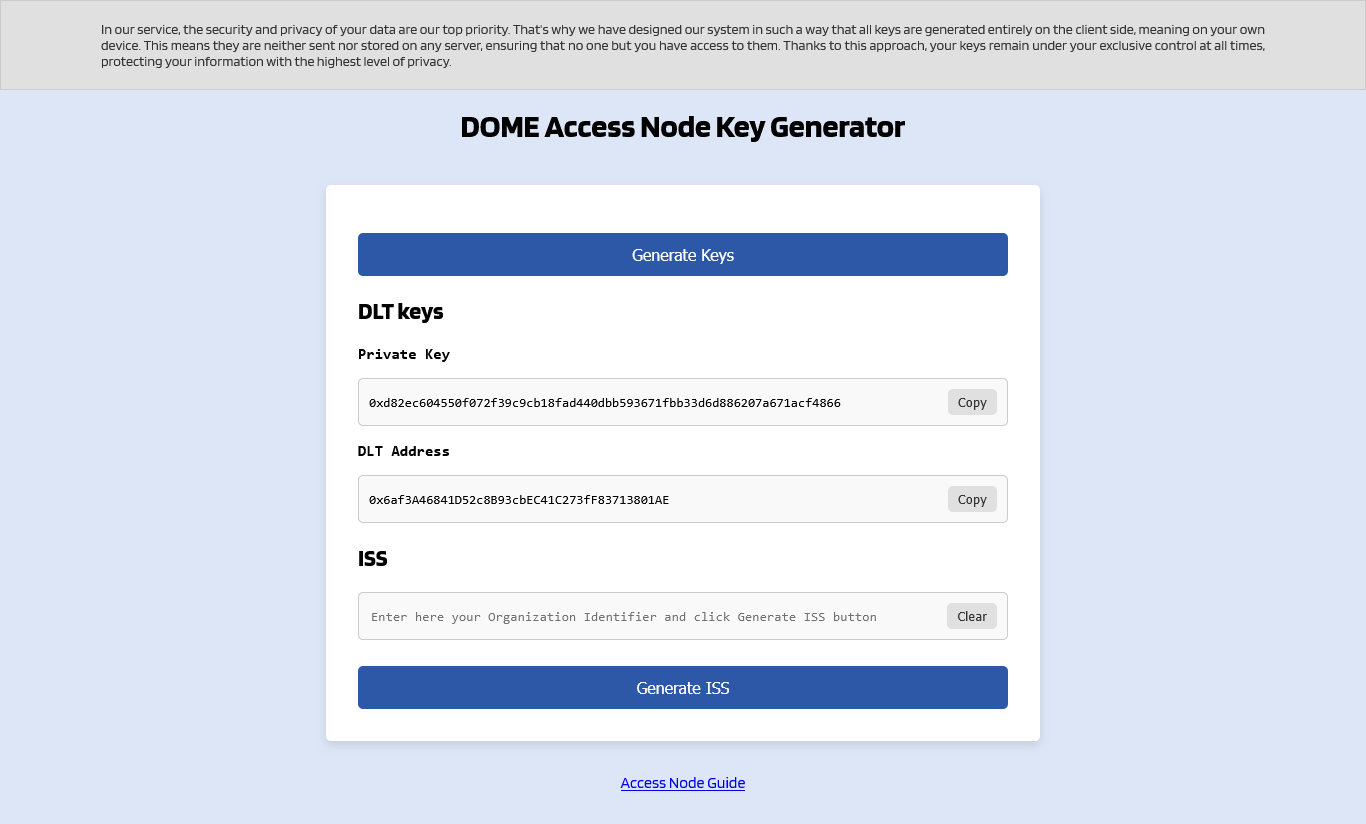
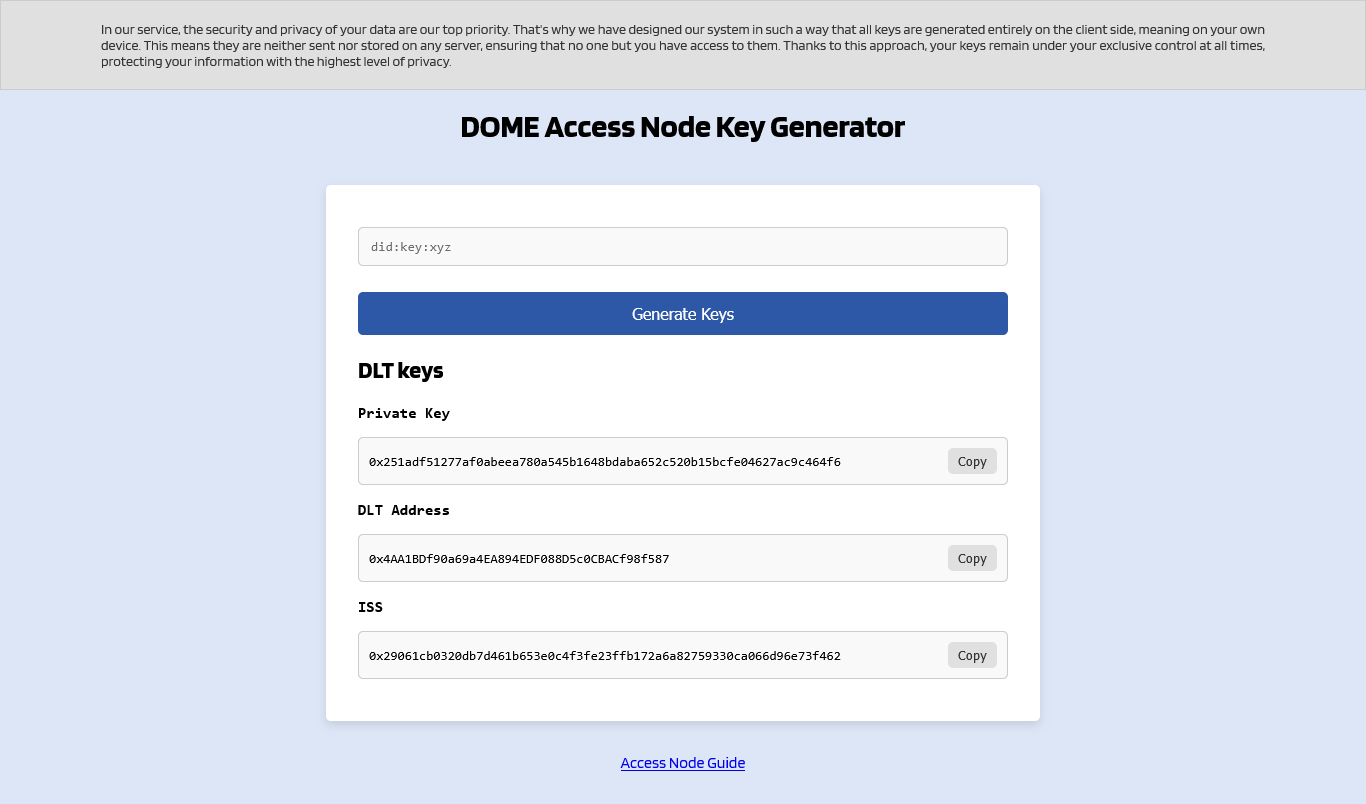
docs(readme): update dome key generator images

diff --git a/README.md b/README.md
@@ -170,15 +170,23 @@ LEARCredentialMachine. In the ticket text, add the following data:
    - Organization id (VAT number):
    - Country:
    
-   d. Email address to which you wish to receive the LEARCredentialMachine:
+   d. Email address to which you wish to receive the LEARCredentialMachine.
 
-2. Go to the [DOME Key Generator](https://dome-marketplace.github.io/dome-crypto-generator/):
+2. Wait until you receive in your email address:
+    - The **LEARCredentialMachine** in Base64 format.
+    - The **Desmos private key**.
+    - Your **Did-key**.
+
+3. Go to the [DOME Key Generator](https://dome-marketplace.github.io/dome-crypto-generator/):
    ![dome-key-generator-home.png](doc/dome-key-generator-home.png)
 
-3. Click the button to generate the keys:
+6. Write the Did-key received:
+   ![dome-key-generator-did-key.png](doc/dome-key-generator-did-key.png)
+
+4. Click the button to generate the keys:
    ![dome-key-generator-example.png](doc/dome-key-generator-example.png)
 
-4. Register as a valid organization in the Trusted Access Node List of the corresponding environment following the
+6. Register as a valid organization in the Trusted Access Node List of the corresponding environment following the
    instructions in the [DOME Trust Framework](https://github.com/DOME-Marketplace/trust-framework).
 
    :bulb: With the following tables you can relate the key names in the Dome Key Generator with the key names in the
@@ -188,7 +196,7 @@ LEARCredentialMachine. In the ticket text, add the following data:
    |--------------------------|---------------------------|
    | dlt_address              | DLT keys -> DLT Address   |
 
-5. Register as a valid service in the Trusted Services List of the corresponding environment following the
+7. Register as a valid service in the Trusted Services List of the corresponding environment following the
    instructions provided in the [DOME Trust Framework](https://github.com/DOME-Marketplace/trust-framework).
    Use the following YAML template as a reference:
     ```
@@ -204,12 +212,12 @@ LEARCredentialMachine. In the ticket text, add the following data:
       tokenEndpointAuthenticationSigningAlgorithm: "ES256"
     ```
    > [!NOTE]
-   > Replace `<did:key>` with the DID key generated in the "Desmos keys" part of the DOME Key Generator.
+   > Replace `<did:key>` with the DID key provided in the credential issuance.
 
-6. Copy the LEARCredentialMachine in Base64 format and paste it in the `learCredentialMachineInBase64` field in the
+8. Copy the LEARCredentialMachine in Base64 format and paste it in the `learCredentialMachineInBase64` field in the
    Access Node Helm Chart implementation.
 
-7. Copy the private keys to your Access Node Helm Chart implementation and update the specified fields
+9. Copy the private keys to your Access Node Helm Chart implementation and update the specified fields
    in [How to configure](#how-to-configure) section.
    You have a specific explanation about what you need to add in the Trusted Access Node List
    in: https://github.com/DOME-Marketplace/trust-framework#which-data-is-needed-to-set-a-new-entry-into-the-trusted-access-node-operators-list.
@@ -224,25 +232,25 @@ LEARCredentialMachine. In the ticket text, add the following data:
    | dlt-adapter.env.PRIVATE_KEY                | DLT keys -> Private Key    |
    | dlt-adapter.env.ISS                        | DLT keys -> ISS            |
 
-8. Add the DOME Helm Chart Repository to your helm installation
+10. Add the DOME Helm Chart Repository to your helm installation
 
-    ```
-    helm repo add dome-access-node https://dome-marketplace.github.io/access-node
-    helm repo update
      ```
+     helm repo add dome-access-node https://dome-marketplace.github.io/access-node
+     helm repo update
+      ```
 
-   :bulb: All releases of the Access-Node reside in the
-   helm-repository https://dome-marketplace.github.io/access-node.
-   In addition to that, all Pre-Release versions(build from the Pull Requests) are provided in the
-   pre-repo https://dome-marketplace.github.io/access-node/pre. The pre-repo will be cleaned-up from time to time, in
-   order to keep the index manageable.
+    :bulb: All releases of the Access-Node reside in the
+    helm-repository https://dome-marketplace.github.io/access-node.
+    In addition to that, all Pre-Release versions(build from the Pull Requests) are provided in the
+    pre-repo https://dome-marketplace.github.io/access-node/pre. The pre-repo will be cleaned-up from time to time, in
+    order to keep the index manageable.
 
-9. Install the DOME Access Node
-   ```
-   helm install access-node dome-access-node/access-node --namespace <NAMESPACE> -f config/accessnode.yaml
-   ```
+11. Install the DOME Access Node
+    ```
+    helm install access-node dome-access-node/access-node --namespace <NAMESPACE> -f config/accessnode.yaml
+    ```
 
-   NAMESPACE: The Kubernetes Cluster namespace where the DOME Access Node will be deployed.
+    NAMESPACE: The Kubernetes Cluster namespace where the DOME Access Node will be deployed.
 
 ### How to configure
 
